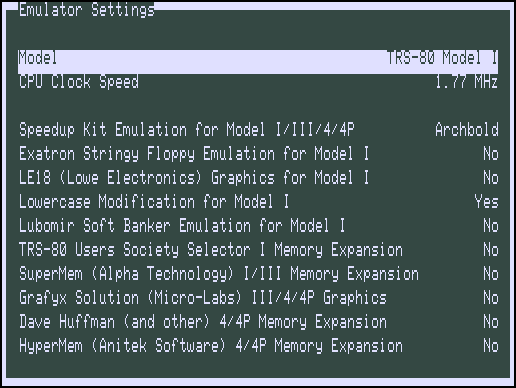
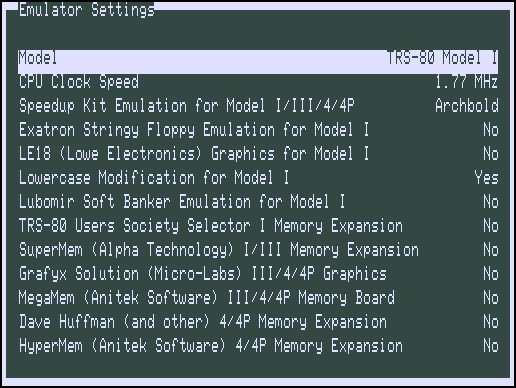
Update documentation and images

diff --git a/html/Features.html b/html/Features.html
@@ -52,10 +52,10 @@ operate as a TRS-80 Model I, Model III, Model 4, or Model 4P.</p>
 
 <p>SDLTRS supports 48K of RAM in Model I or Model III mode, 128K in Model 4
 or Model 4P mode. Some memory expansions like Alpha Technology's "SuperMem"
-and "HyperMem" from Anitek, Dave Huffman's (and others), "Selector" from the
-Dutch TRS-80 Users Society, are also supported (to a total of 2 MB). Floppy
-disks and hard disks are emulated using files to store the data; under Linux
-only, real floppy drives can be used.</p>
+(512 KB), "HyperMem" (1 MB) and "MegaMem" (3 MB) by Anitek, Dave Huffman's
+(and others), "Selector" (LNW80 compatible) of the Dutch TRS-80 Users Society,
+are also supported. Floppy disks and hard disks are emulated using files to
+store the data; under Linux only, real floppy drives can be used.</p>
 
 <p>A printer is emulated by sending its output to a text file. A serial port
 is emulated using a host serial port. Cassette I/O is emulated using files to

diff --git a/html/Options.html b/html/Options.html
@@ -251,7 +251,8 @@ will be executed upon startup of the emulator.</p>
   <tr>
     <td><code>-megamem</code></td>
     <td>Enable MegaMem (Anitek) memory expansion for the Model III and 4/4P.
-        Can be used with HyperMem for a total of 4 MB on the Model 4/4P.</td>
+        Can be used with "HyperMem" for a total of 4 MB on the Model 4/4P.
+        The "SuperMem" memory expansion must be enabled for Model III.</td>
   </tr>
   <tr>
     <td><code>-microlabs</code></td>

diff --git a/html/Credits.html b/html/Credits.html
@@ -81,6 +81,8 @@ over from XTRS and the MAME project:</h3>
   <br>
   <li>Klaus Kaempf wrote the EG 3200 (Genie III) driver for the MAME project
       in 2020 which provided valuable information for the implementation.</li>
+  <br>
+  <li>George Phillips provided documentation for the Anitek MegaMem card.</li>
 </ul>
 
 </body>

diff --git a/html/TextGUI.html b/html/TextGUI.html
@@ -280,7 +280,7 @@ different from one another.</p>
 
 <h3>Memory Expansions:</h3>
 
-<p>Various memory expansions can be emulated for a total of 2 MB RAM.</p>
+<p>Various memory expansions can be emulated for a total of 4 MB RAM.</p>
 
 <h2><a name="Display_Settings"></a><u>Display Settings</u></h2>
 
